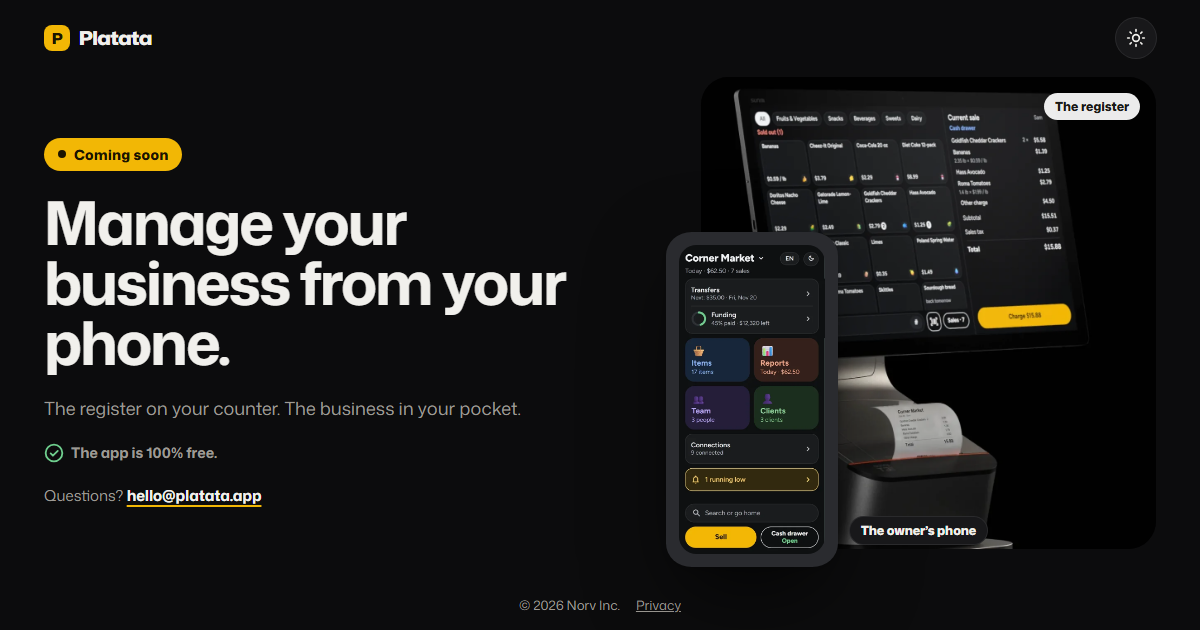
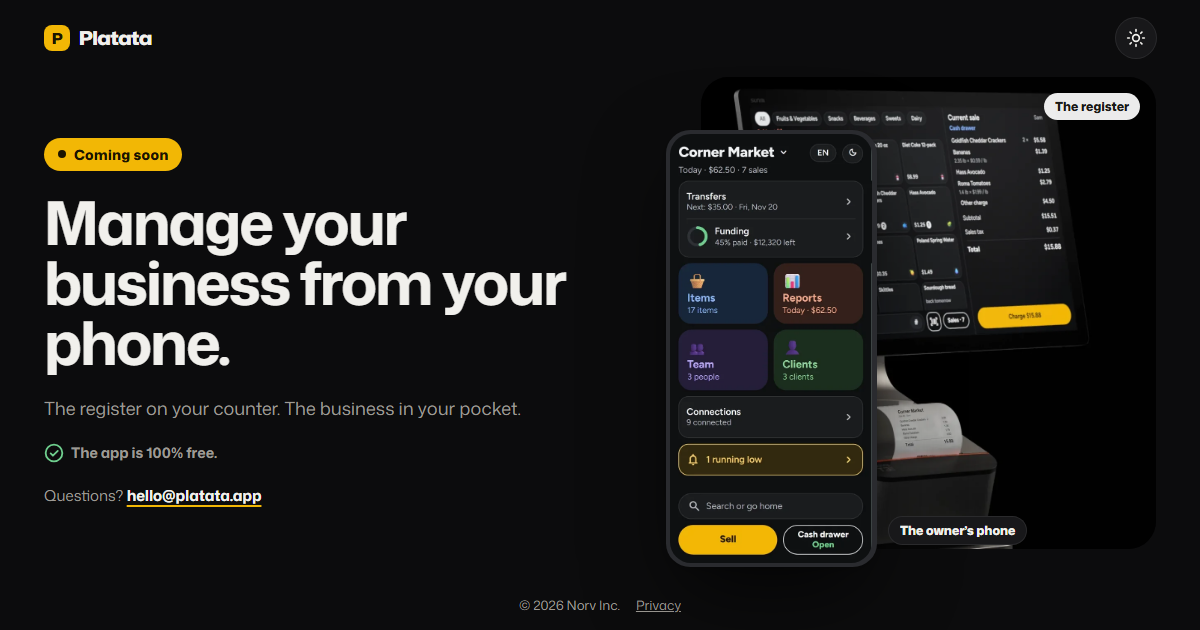
Coming soon: thinner phone bezel, bigger phone so the workspace reads

Changed region(s): [[0.555, 0.181, 0.8633, 0.9048]]

diff --git a/index.html b/index.html
@@ -74,16 +74,17 @@ h1 { margin: 0; font-size: clamp(36px, min(5.2vw, 9.5vh), 60px); line-height: 1.
 .stage { position: relative; height: min(560px, calc(100vh - 140px)); aspect-ratio: 1 / 1; }
 .reg { position: absolute; right: 0; top: 0; width: 92.9%; height: 96.4%; border-radius: 6%; overflow: hidden; background: #050506; }
 .reg img { width: 100%; height: 100%; object-fit: cover; object-position: 50% 40%; display: block; }
-.phone { position: absolute; left: 0; bottom: 0; width: 35%; padding: 2.6%; border-radius: 15% / 7%;
+/* 23 Nov, Monti: thinner bezel, a bigger phone so the workspace reads */
+.phone { position: absolute; left: 0; bottom: 0; width: 43%; padding: 0.9%; border-radius: 11.5% / 5.4%;
   background: var(--bezel); box-shadow: 0 40px 70px -34px var(--shadow), 0 2px 6px rgba(0,0,0,.16);
   filter: drop-shadow(0 24px 40px rgba(0,0,0,.28)); }
-.phone img { display: block; width: 100%; height: auto; border-radius: 12% / 5.6%; }
+.phone img { display: block; width: 100%; height: auto; border-radius: 10.4% / 4.9%; }
 .phone .dark { display: none; }
 :root[data-theme="dark"] .phone .light { display: none; }
 :root[data-theme="dark"] .phone .dark { display: block; }
 .tag { position: absolute; font-size: 12.5px; font-weight: 800; padding: 5px 11px; border-radius: 999px; white-space: nowrap; }
 .tag.tr { right: 3.2%; top: 3.2%; background: rgba(255,255,255,.92); color: #1B1A18; }
-.tag.tp { left: 37.5%; bottom: 4.6%; background: var(--card); color: var(--ink); box-shadow: 0 0 0 1px var(--line); }
+.tag.tp { left: 45.5%; bottom: 4.6%; background: var(--card); color: var(--ink); box-shadow: 0 0 0 1px var(--line); }
 
 footer { display: flex; gap: 16px; justify-content: center; padding: 10px 20px 16px; font-size: 13px; color: var(--ink2); }
 footer a { color: var(--ink2); }
